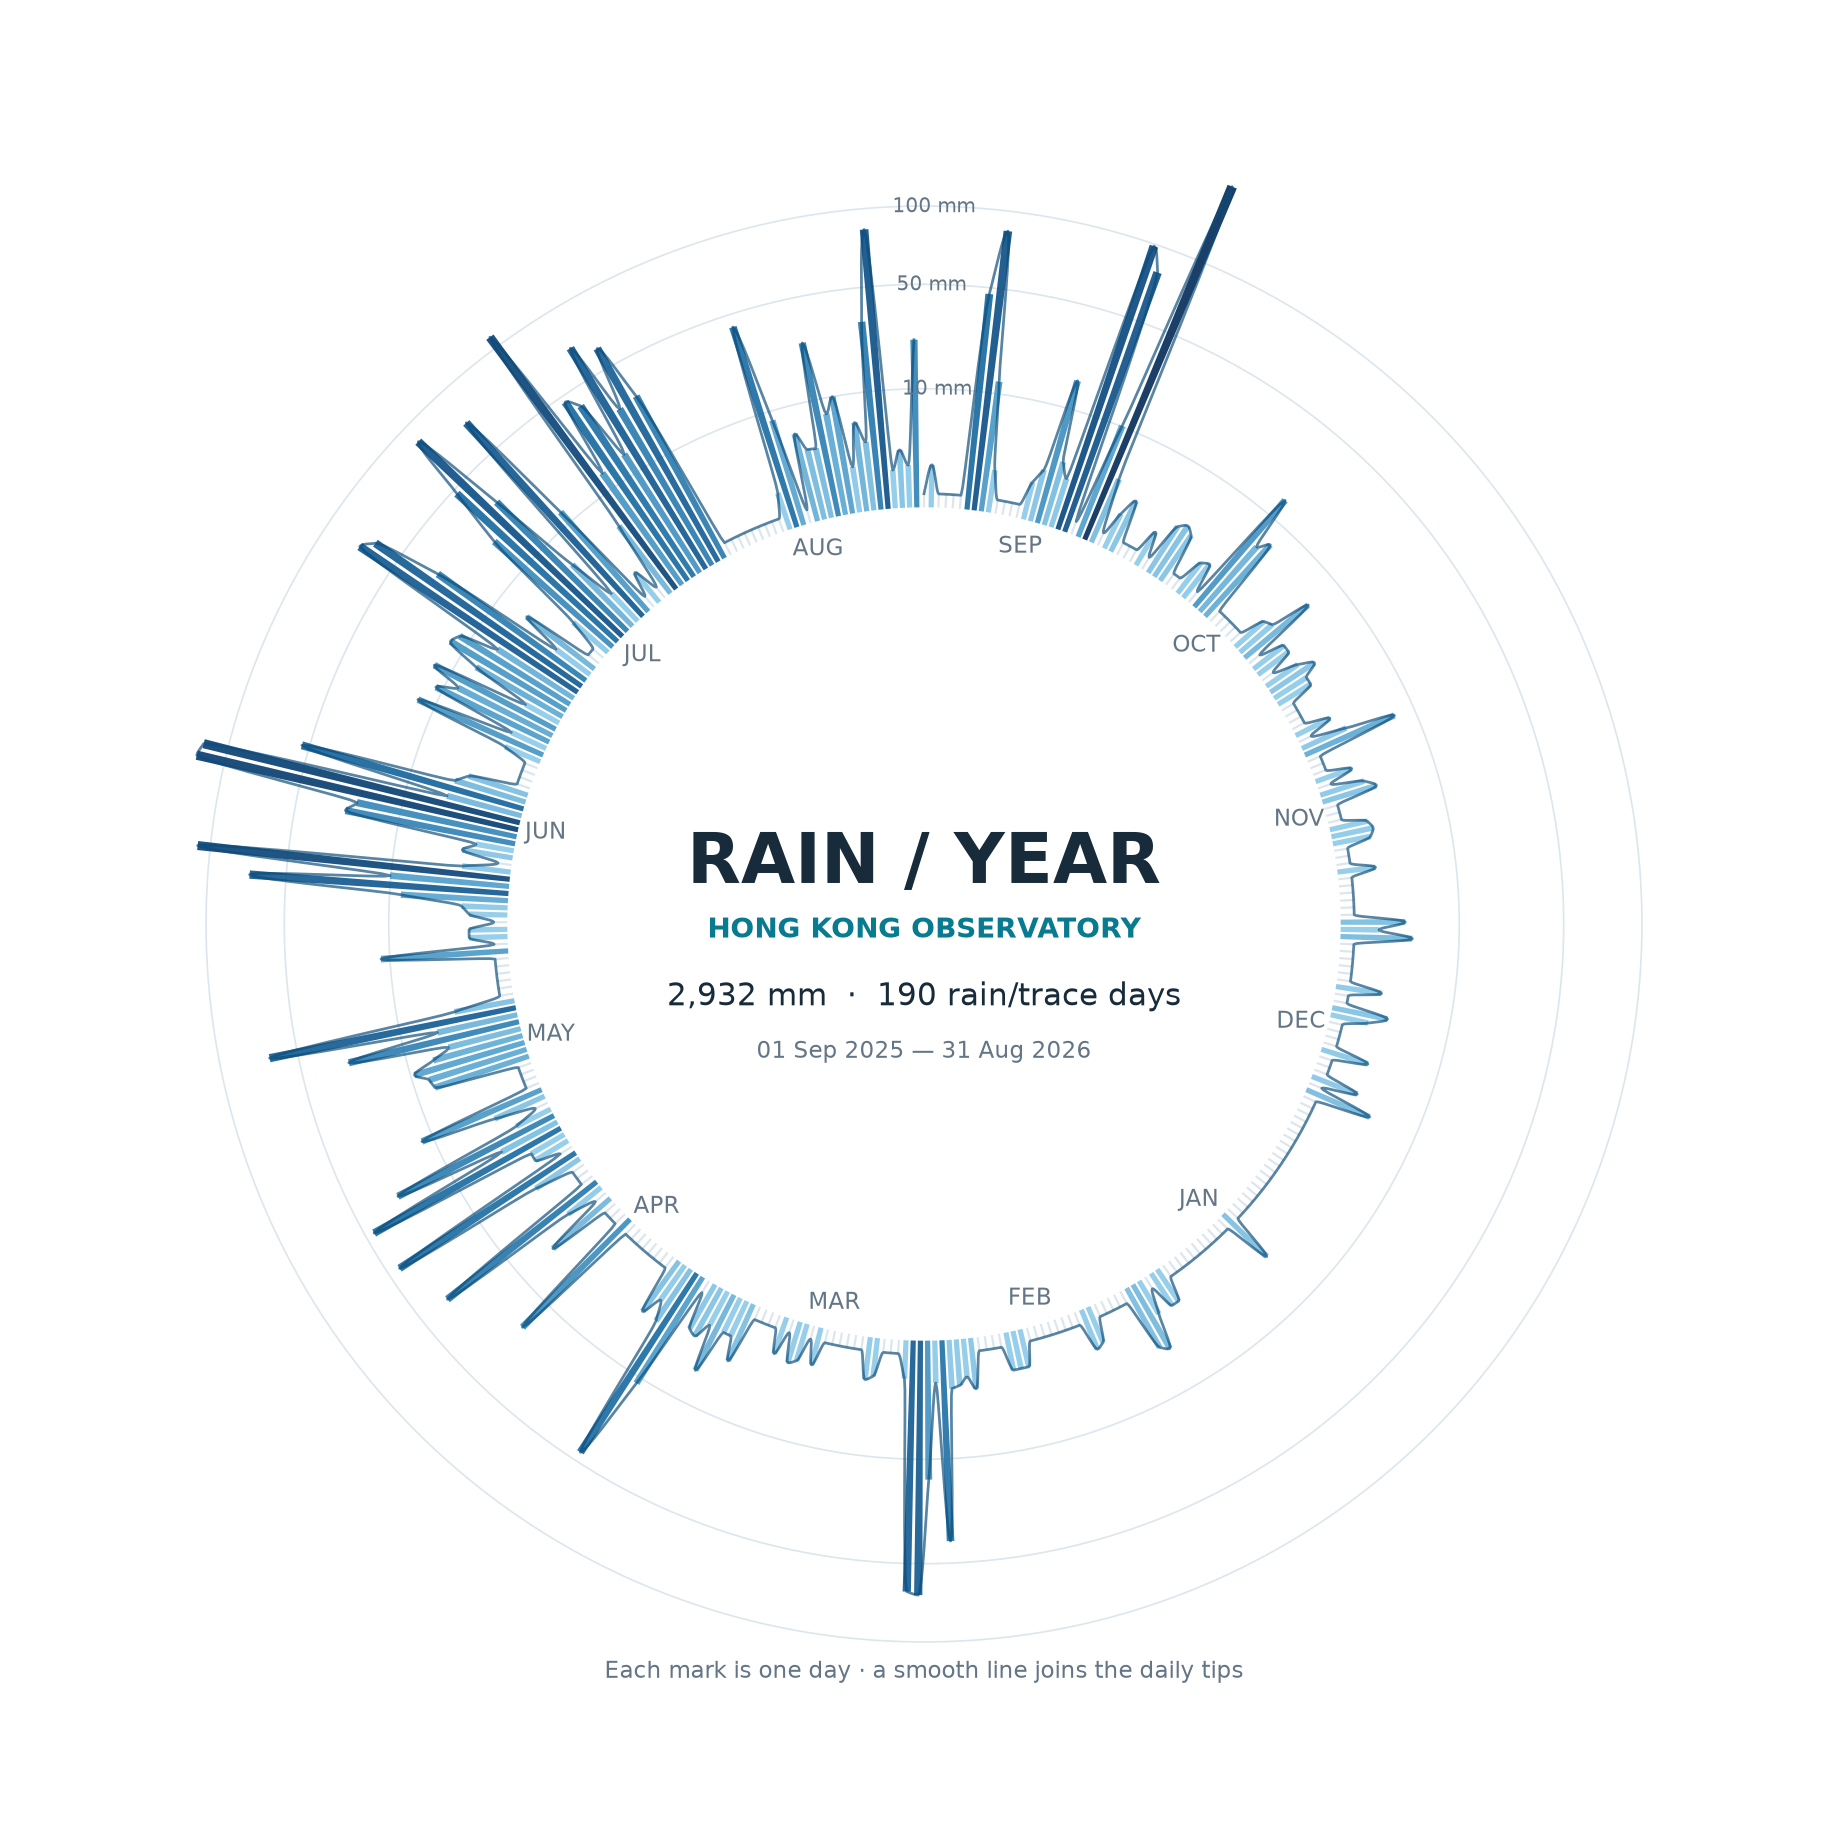
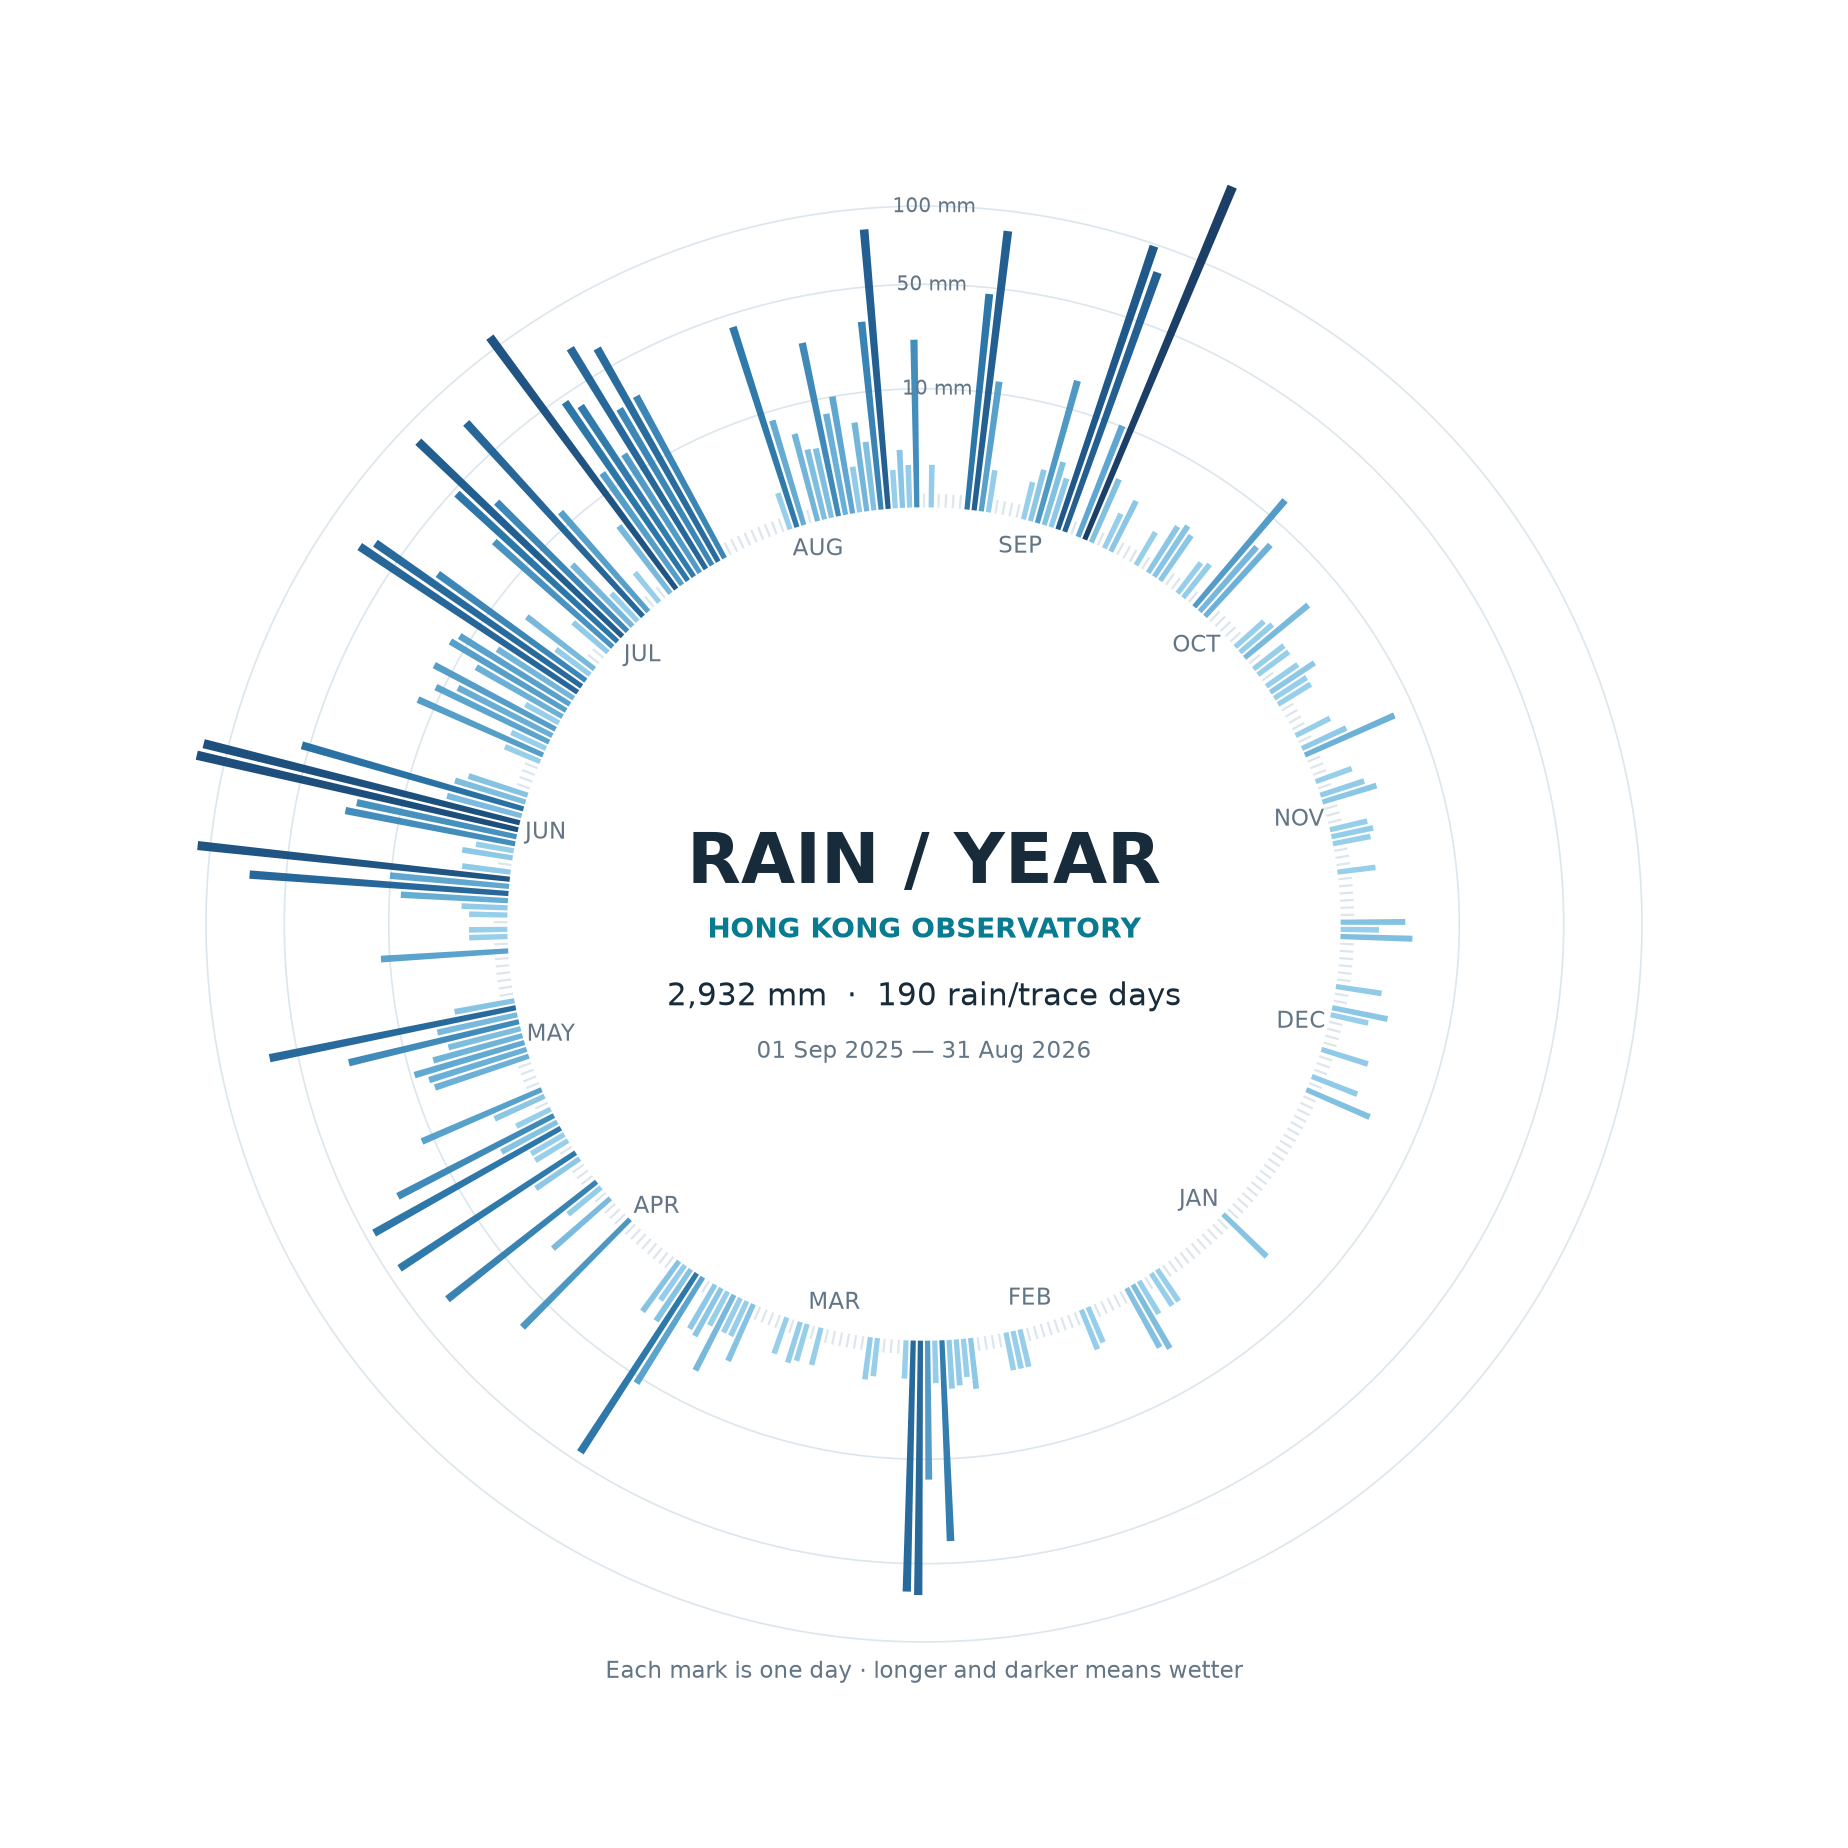
Remove connecting line from static rainfall chart

diff --git a/plot.py b/plot.py
@@ -46,33 +46,6 @@ def month_positions(dates: pd.Series) -> list[tuple[float, str]]:
     return positions
 
 
-def smooth_tip_curve(radii: np.ndarray, samples_per_day: int = 8) -> tuple[np.ndarray, np.ndarray]:
-    """Interpolate between daily tips without inventing higher peaks or lower troughs."""
-    differences = np.diff(radii)
-    slopes = np.zeros_like(radii)
-    slopes[0], slopes[-1] = differences[0], differences[-1]
-    for index in range(1, len(radii) - 1):
-        before, after = differences[index - 1], differences[index]
-        if before * after > 0:
-            slopes[index] = np.sign(after) * min(abs(before), abs(after))
-
-    day_positions = []
-    smooth_radii = []
-    for index in range(len(radii) - 1):
-        for fraction in np.linspace(0, 1, samples_per_day, endpoint=False):
-            squared = fraction * fraction
-            cubed = squared * fraction
-            radius = ((2 * cubed - 3 * squared + 1) * radii[index]
-                      + (cubed - 2 * squared + fraction) * slopes[index]
-                      + (-2 * cubed + 3 * squared) * radii[index + 1]
-                      + (cubed - squared) * slopes[index + 1])
-            day_positions.append(index + fraction)
-            smooth_radii.append(radius)
-    day_positions.append(len(radii) - 1)
-    smooth_radii.append(radii[-1])
-    return np.asarray(day_positions), np.asarray(smooth_radii)
-
-
 def plot_rainfall_wheel(df: pd.DataFrame, output_image: Path) -> None:
     """Turn one year of daily rainfall into a circular field of rain marks."""
     days = len(df)
@@ -102,11 +75,6 @@ def plot_rainfall_wheel(df: pd.DataFrame, output_image: Path) -> None:
             ax.bar(angle, length, width=width, bottom=baseline,
                    color=colour, alpha=0.92, linewidth=0)
 
-    tip_radii = baseline + np.where(rain > 0, lengths, 0.10)
-    day_positions, smooth_radii = smooth_tip_curve(tip_radii)
-    ax.plot(2 * np.pi * day_positions / days, smooth_radii, color="#0b4b79",
-            linewidth=0.9, alpha=0.68, zorder=3)
-
     # Fine circular guides make magnitude readable without dominating the image.
     for value in (10, 50, 100):
         radius = baseline + 0.25 + 2.55 * np.sqrt(value) / maximum
@@ -133,7 +101,7 @@ def plot_rainfall_wheel(df: pd.DataFrame, output_image: Path) -> None:
             transform=ax.transAxes, color=INK, fontsize=10, ha="center")
     ax.text(0.5, 0.421, f"{start} — {end}", transform=ax.transAxes,
             color=MUTED, fontsize=7.5, ha="center")
-    ax.text(0.5, 0.055, "Each mark is one day · a smooth line joins the daily tips",
+    ax.text(0.5, 0.055, "Each mark is one day · longer and darker means wetter",
             transform=ax.transAxes, color=MUTED, fontsize=7.5, ha="center")
 
     ax.set_ylim(0, baseline + 3.15)

diff --git a/PROCESS.md b/PROCESS.md
@@ -2,7 +2,7 @@
 
 ## Tools
 
-I used Codex to inspect the committed Hong Kong Observatory CSV, develop and revise the Python plot, build a month-by-month interactive version, and check the result against the assignment requirements. I wanted a more artistic chart and then asked for a white background and an all-blue scale in which taller marks are darker. For the website, I asked that the circle start empty and reveal a month's bars from their roots when someone hovers nearby. After reviewing a curved-line preview, I chose straight bars and asked Codex to add a Show All option so the whole year can appear at once. I later asked for a separate smooth line connecting the daily bar tips while leaving their measured heights unchanged. I reviewed the generated images and gave feedback on their appearance. Codex used `uv` to run the scripts and the assignment's checker to verify the repository structure.
+I used Codex to inspect the committed Hong Kong Observatory CSV, develop and revise the Python plot, build a month-by-month interactive version, and check the result against the assignment requirements. I wanted a more artistic chart and then asked for a white background and an all-blue scale in which taller marks are darker. For the website, I asked that the circle start empty and reveal a month's bars from their roots when someone hovers nearby. After reviewing a curved-line preview, I chose straight bars and asked Codex to add a Show All option so the whole year can appear at once. I later asked for a separate smooth line connecting the daily bar tips while leaving their measured heights unchanged, then decided to remove that line from the static image and keep its bars clear. I reviewed the generated images and gave feedback on their appearance. Codex used `uv` to run the scripts and the assignment's checker to verify the repository structure.
 
 ## Kept
 

diff --git a/README.md b/README.md
@@ -12,7 +12,7 @@ The numbers come from the [Hong Kong Observatory's daily rainfall CSV](https://d
 
 ## What the picture shows
 
-This image uses the latest 365 calendar days in the committed file: 1 September 2025 to 31 August 2026. Each thin mark is a day. More rainfall makes the mark longer and its blue darker; pale inner ticks mark dry days. A fine, smoothly interpolated line connects the daily tips, helping the eye follow changes without adding new measurements. The period totals about 2,932 mm over 190 days with measurable or trace rainfall. The circular format makes clusters and quiet stretches easy to see, but it compresses the numerical scale with a square-root transformation and does not show when during a day the rain fell. It also describes one observing station, not every part of Hong Kong.
+This image uses the latest 365 calendar days in the committed file: 1 September 2025 to 31 August 2026. Each thin mark is a day. More rainfall makes the mark longer and its blue darker; pale inner ticks mark dry days. The period totals about 2,932 mm over 190 days with measurable or trace rainfall. The circular format makes clusters and quiet stretches easy to see, but it compresses the numerical scale with a square-root transformation and does not show when during a day the rain fell. It also describes one observing station, not every part of Hong Kong.
 
 ## Interactive version
 
